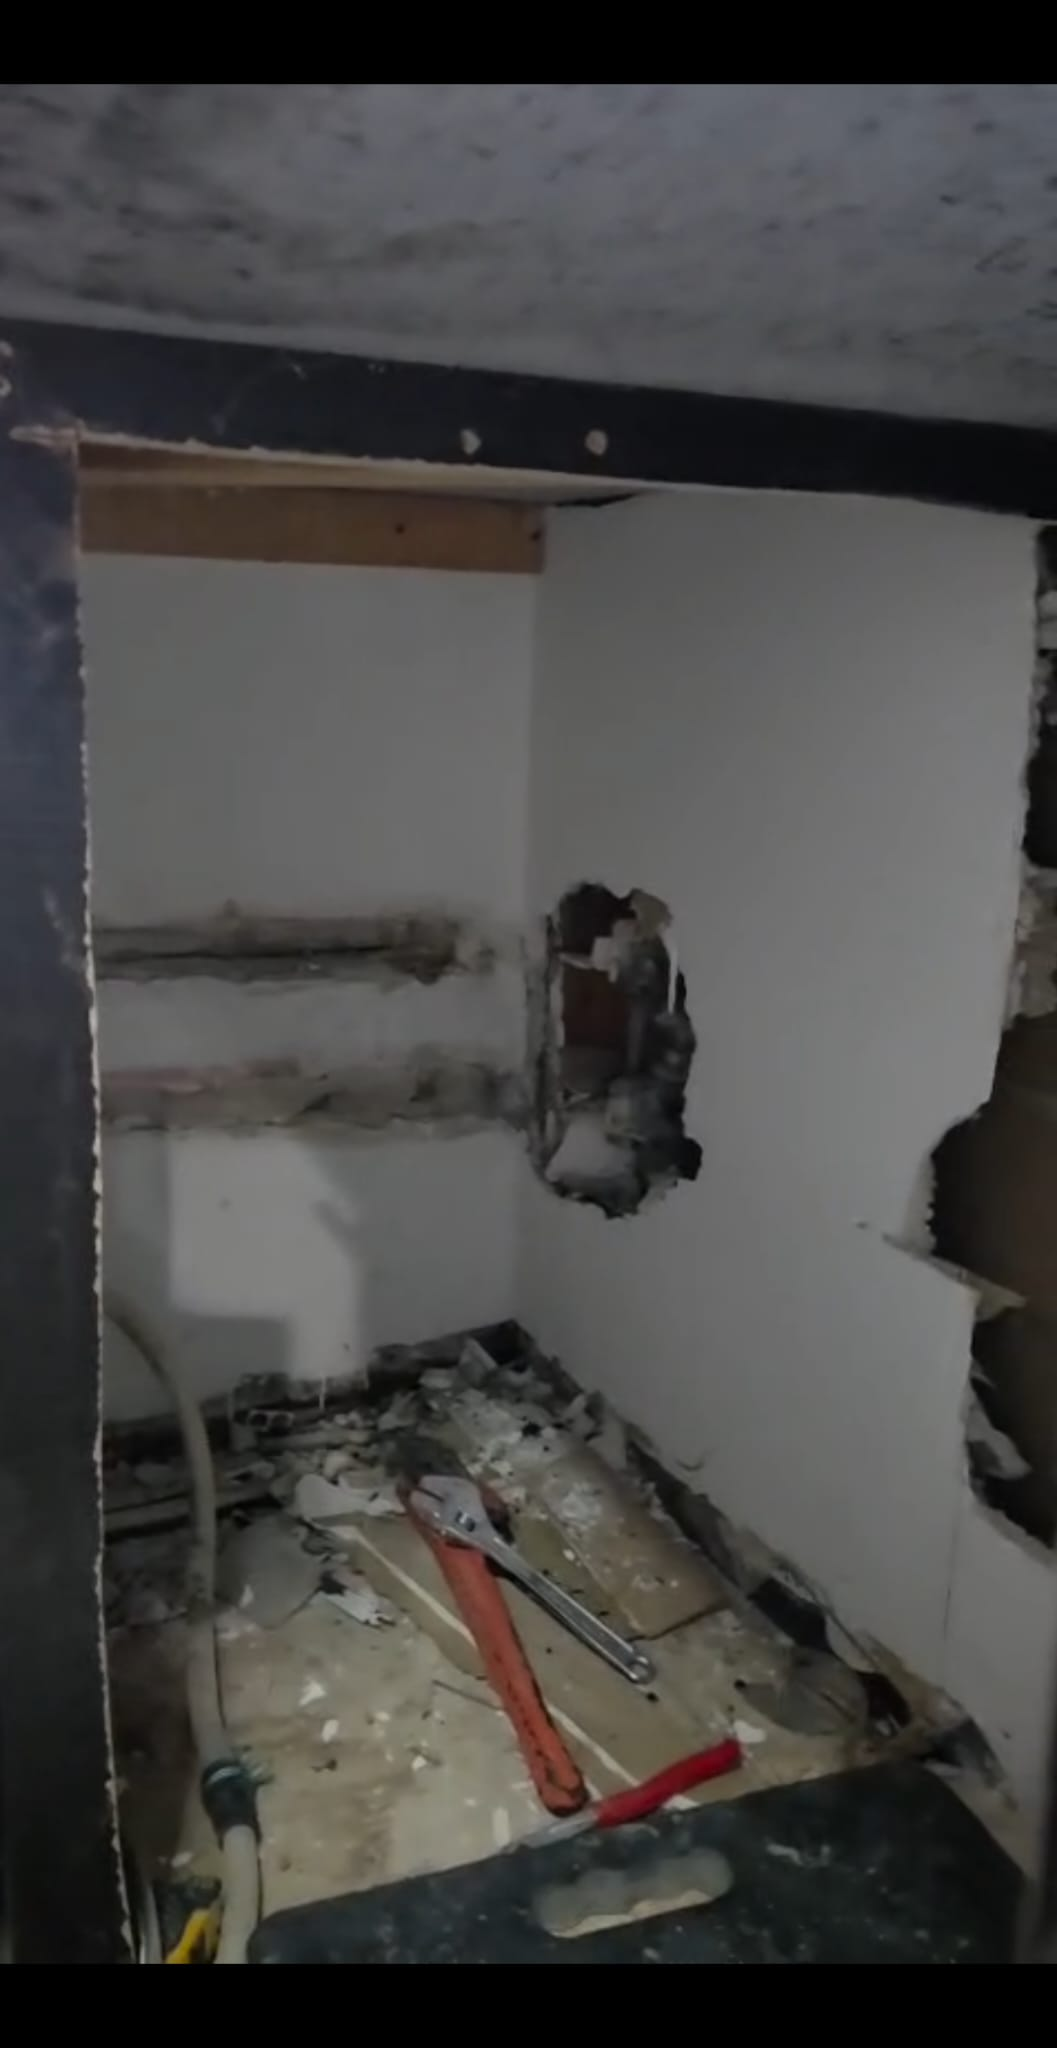
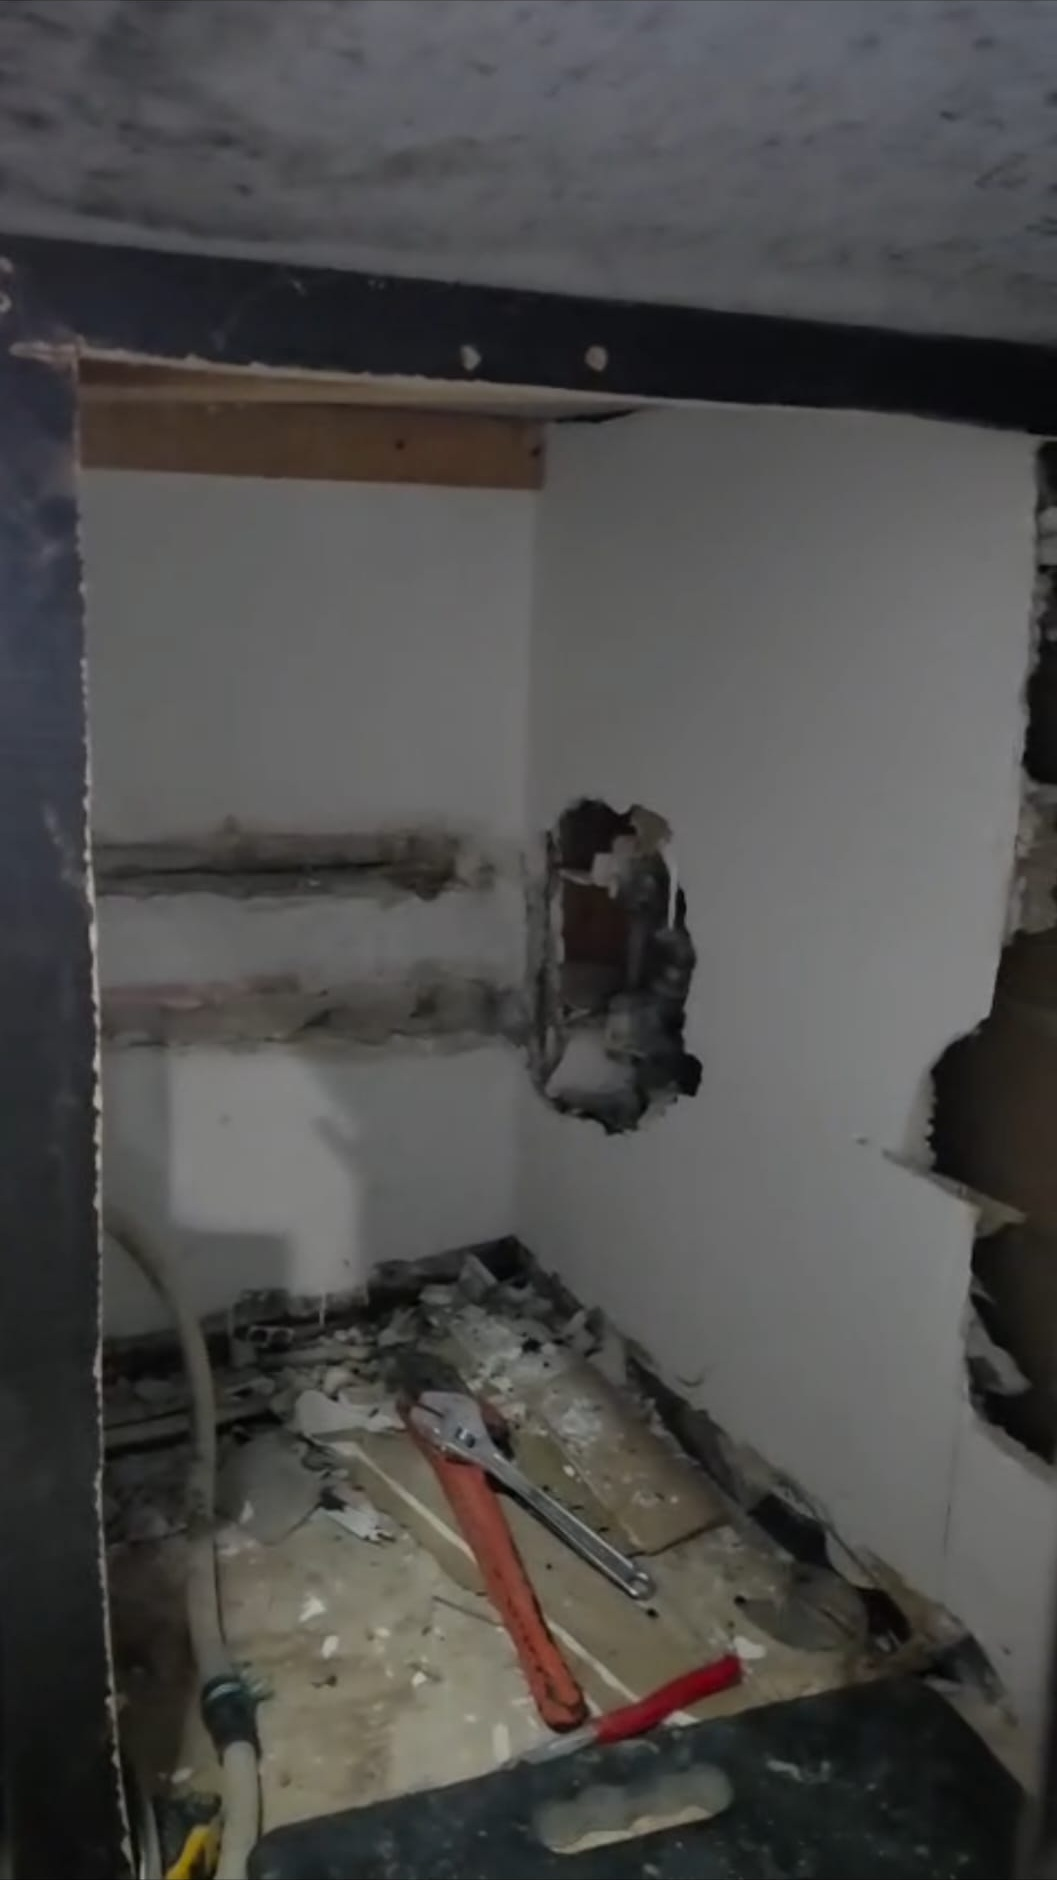
Crop phone interface from pipe repair photos

diff --git a/our-work.html b/our-work.html
@@ -93,11 +93,11 @@
     </div>
     <div class="repair-gallery">
       <figure class="repair-card">
-        <a href="assets/pipe-repair-before.jpg" target="_blank" rel="noopener noreferrer" aria-label="View pipe repair before photo (new tab)"><img src="assets/pipe-repair-before.jpg" alt="Opened wall exposing the plumbing before pipe replacement, with tools in the work area" width="1057" height="2048" loading="lazy"></a>
+        <a href="assets/pipe-repair-before.jpg" target="_blank" rel="noopener noreferrer" aria-label="View pipe repair before photo (new tab)"><img src="assets/pipe-repair-before.jpg" alt="Opened wall exposing the plumbing before pipe replacement, with tools in the work area" width="1057" height="1880" loading="lazy"></a>
         <figcaption><span class="repair-stage">01</span><h3>Before</h3></figcaption>
       </figure>
       <figure class="repair-card">
-        <a href="assets/pipe-repair-after.jpg" target="_blank" rel="noopener noreferrer" aria-label="View pipe repair after photo (new tab)"><img src="assets/pipe-repair-after.jpg" alt="Replacement pipe and fittings installed along the open wall" width="1057" height="2048" loading="lazy"></a>
+        <a href="assets/pipe-repair-after.jpg" target="_blank" rel="noopener noreferrer" aria-label="View pipe repair after photo (new tab)"><img src="assets/pipe-repair-after.jpg" alt="Replacement pipe and fittings installed along the open wall" width="1057" height="1410" loading="lazy"></a>
         <figcaption><span class="repair-stage">02</span><h3>After pipe replacement</h3></figcaption>
       </figure>
     </div>

diff --git a/index.html b/index.html
@@ -61,7 +61,7 @@
       <figcaption><a href="our-work.html#bathroom-floor-title">A new bathroom floor</a></figcaption>
     </figure>
     <figure class="repair-card project-slide" hidden>
-      <img src="assets/pipe-repair-after.jpg" alt="New pipe and fittings installed in the open wall" width="1057" height="2048">
+      <img src="assets/pipe-repair-after.jpg" alt="New pipe and fittings installed in the open wall" width="1057" height="1410">
       <figcaption><a href="our-work.html#pipe-repair-title">Pipe repair</a></figcaption>
     </figure>
     <figure class="repair-card project-slide" hidden>
